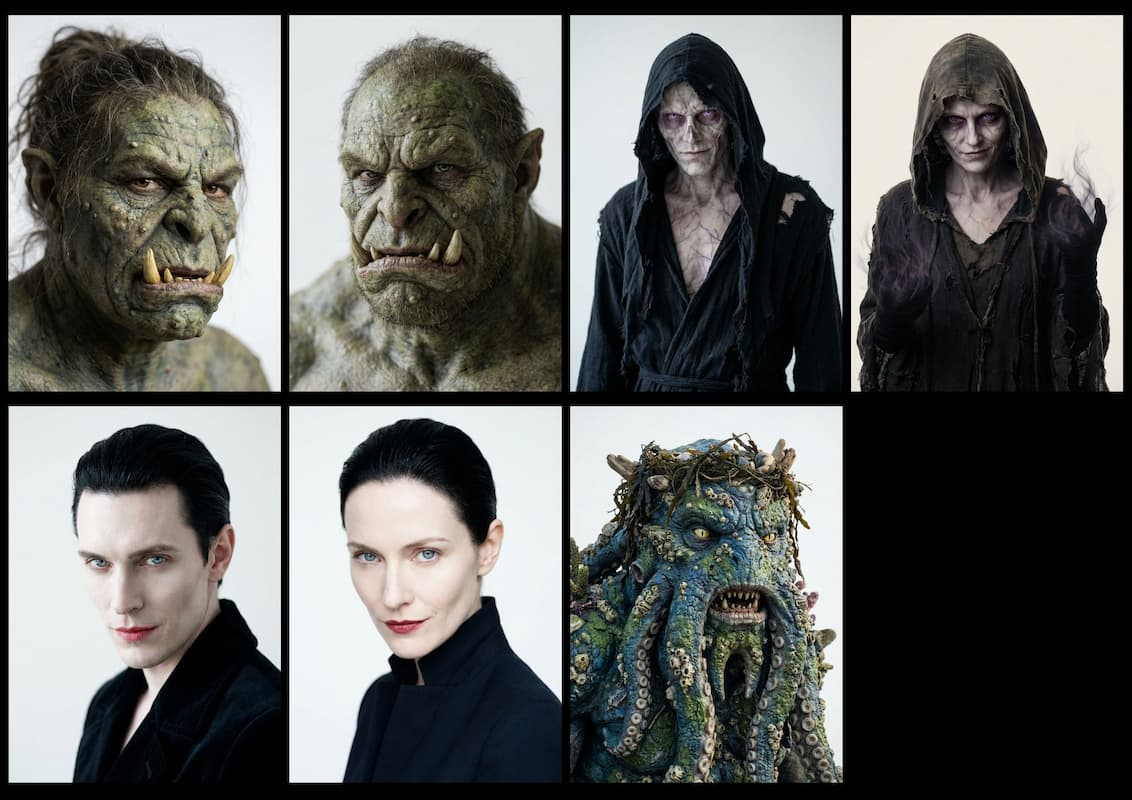
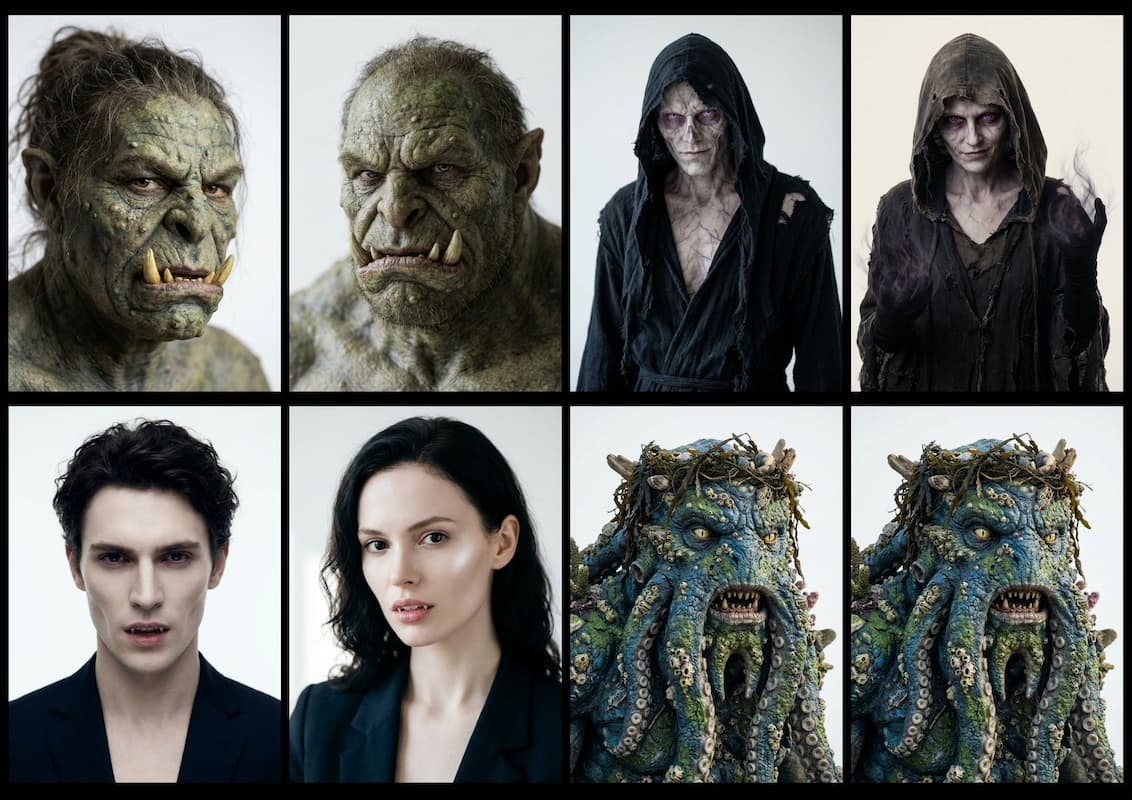
Update to 20

Changed region(s): [[0.0, 0.5, 0.4947, 1.0], [0.742, 0.5, 1.0, 1.0]]

diff --git a/src/content/promptbooks/index.ts b/src/content/promptbooks/index.ts
@@ -530,10 +530,10 @@ export const PROMTBOOKS: Record<string, PromptBookRaw> = {
   "mythical-character-photo": {
     id: 57,
     gumroadSlug: "mythical-character-photo",
-    number: 16,
+    number: 20,
     tags: ["fantasy", "avatar"],
     mainCategory: "fantasy",
     type: "pack",
-    images: [1, 6, 7, 8, 9],
+    images: [1, 6, 7, 8, 9, 10],
   },
 };
